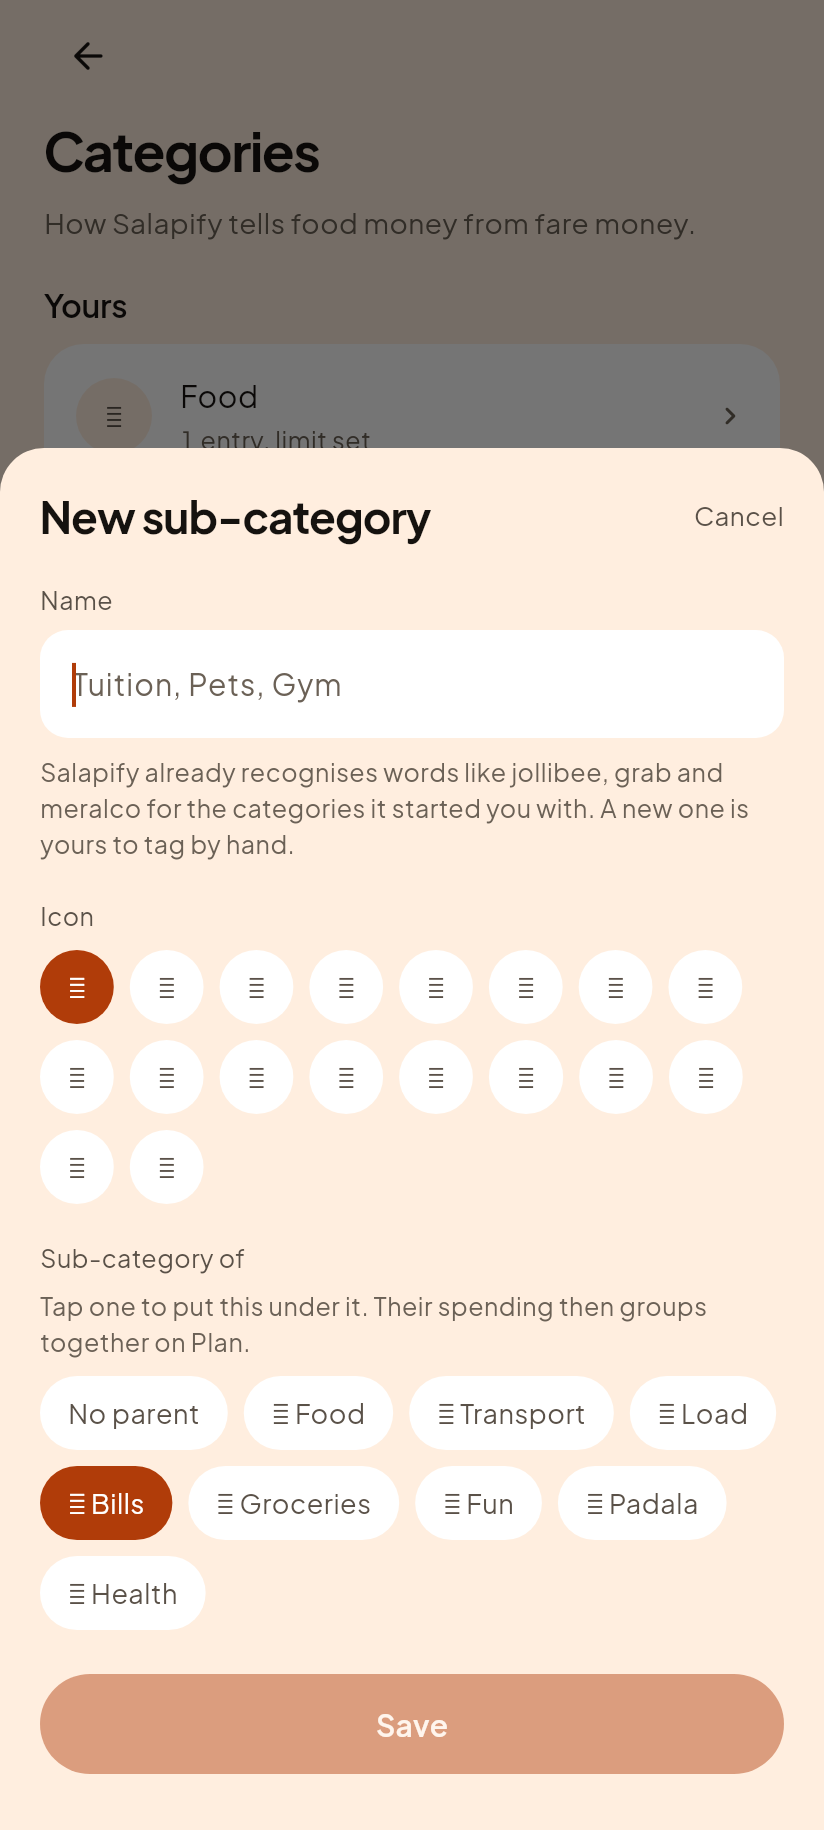
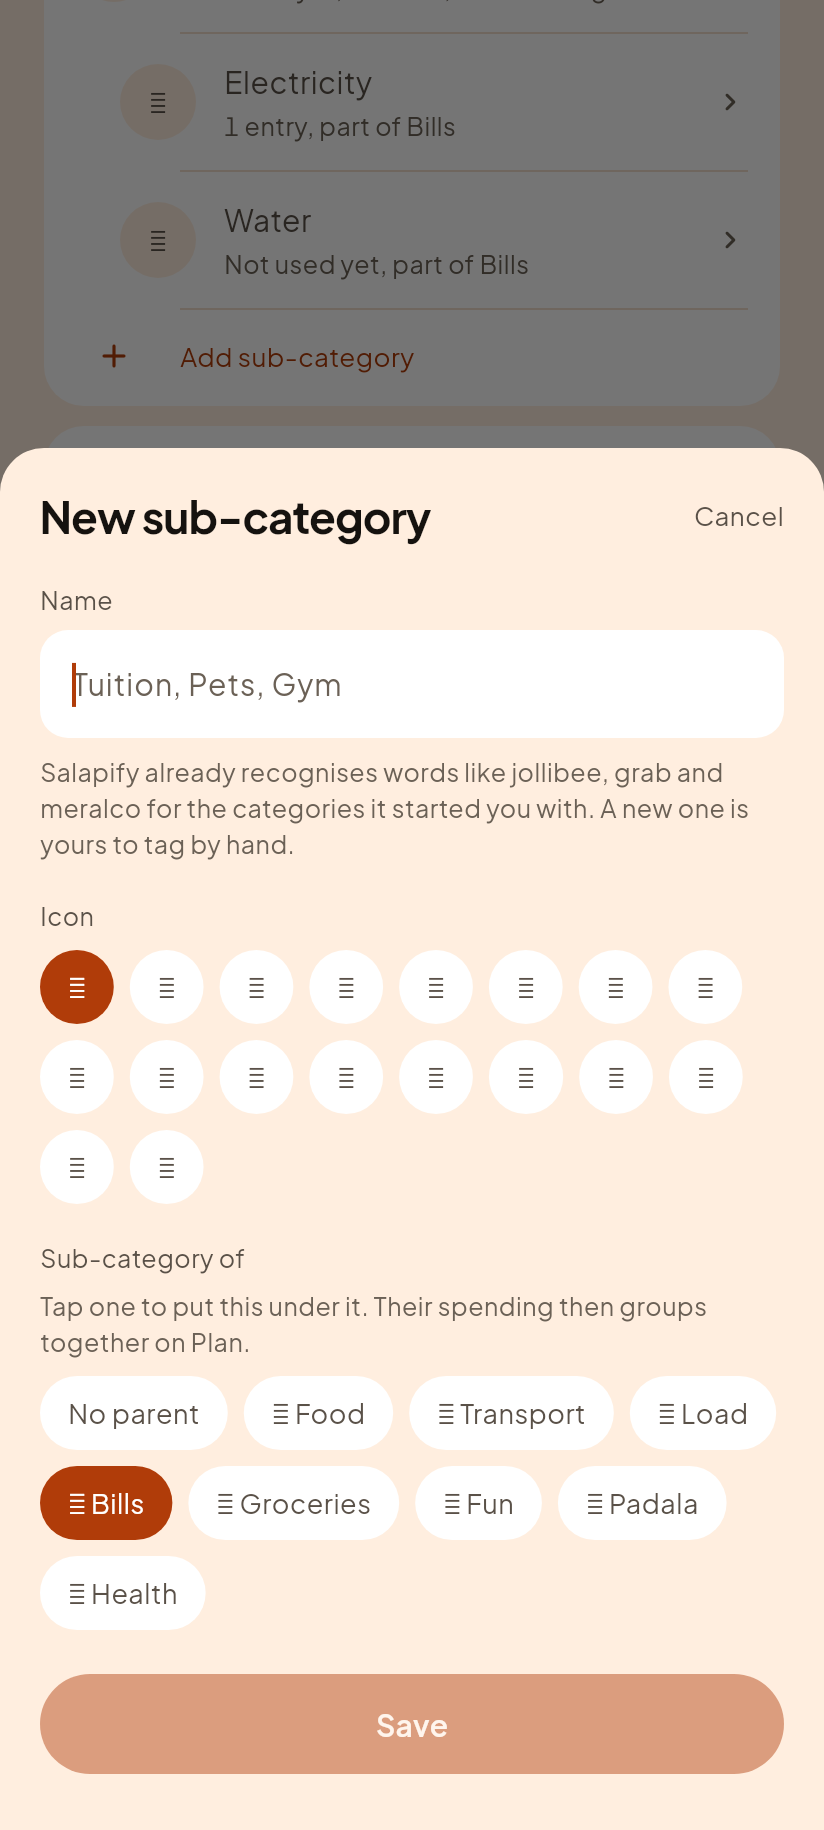
Categories: one card per main category, each with its own add-sub line
Founder direction, after using the first version on their phone: "the users
might be confused. I think its better like add main category then add sub
category right away." Picked the card-per-main-category layout against a
preview of three.

The first shape was one card holding every category in tree order, with the
add control living inside a category's EDIT sheet. Correct, and not
findable. Adding a sub-category through an edit sheet asks somebody to
already know the tree exists before they can build one, and to look for a
CREATE action inside a screen about changing something that already exists.

Now each main category is its own card holding its own sub-categories, with
"Add sub-category" as the last row of that card. The card that owns the
children also owns the way to add one, so the structure teaches itself. The
line is left off a card whose category is itself somebody's child, which is
the two-level rule read from this side (canBeParent, the same function
parentCandidates uses to decide who may be picked).

The editor's own "Add a sub-category" link is REMOVED rather than kept
beside it. Two doors to one action is more surface for a beginner to choose
between, which is the confusion the direction was about, and the list is
strictly the more discoverable of the two.

The journey test moved to the list route with it, and now names what is
missing before it taps: the finder's own "Bad state: No element" was the
[…]

diff --git a/app/lib/features/categories/categories_screen.dart b/app/lib/features/categories/categories_screen.dart
@@ -18,7 +18,7 @@
 import 'package:flutter/material.dart';
 
 import '../../app/ledger_scope.dart';
-import '../../core/money/categories.dart' show categoryTree;
+import '../../core/money/categories.dart' show CategoryRow, categoryTree;
 import '../../core/money/ledger.dart' show amountOf;
 import '../../design/kit.dart';
 import '../../design/tokens.dart';
@@ -84,13 +84,30 @@ class CategoriesScreen extends StatelessWidget {
           ] else ...[
             const Head(title: 'Yours'),
             const SizedBox(height: 8),
-            Group(
-              children: [
-                for (final row in live)
-                  _CategoryRow(cat: row.cat, hidden: false, depth: row.depth),
-              ],
-            ),
-            const SizedBox(height: 16),
+            // ONE CARD PER MAIN CATEGORY, holding its own sub-categories and
+            // its own way to add another. Founder direction, after watching
+            // the first version: "the users might be confused. I think its
+            // better like add main category then add sub category right
+            // away". One long list with the add control buried inside an
+            // EDIT sheet asked somebody to already know the structure exists
+            // before they could build one. A card that visibly owns its
+            // children, with the add line sitting on it, is the structure.
+            for (final cluster in _clusters(live)) ...[
+              Group(
+                children: [
+                  for (final row in cluster)
+                    _CategoryRow(cat: row.cat, hidden: false, depth: row.depth),
+                  // Not offered on a category that is itself somebody's child,
+                  // which is the two-level rule read from this side: its
+                  // children would be grandchildren, the shape categoryTree
+                  // flattens back out on the next screen.
+                  if (canBeParent(data, cluster.first.cat))
+                    _AddSubRow(parent: cluster.first.cat),
+                ],
+              ),
+              const SizedBox(height: 10),
+            ],
+            const SizedBox(height: 6),
           ],
 
           PillButton(
@@ -121,6 +138,63 @@ class CategoriesScreen extends StatelessWidget {
             ),
           ],
         ],
+      ),
+    );
+  }
+}
+
+/// The tree, cut into one list per main category: the parent first, then the
+/// children [categoryTree] already placed under it.
+///
+/// A leading child with no parent above it starts its own cluster rather than
+/// being dropped. That cannot happen through this screen, and dropping a row
+/// a person cannot see is exactly how a category becomes impossible to find,
+/// rename or delete, which is the defensive rule `categoryTree` itself keeps.
+List<List<CategoryRow>> _clusters(List<CategoryRow> rows) {
+  final out = <List<CategoryRow>>[];
+  for (final r in rows) {
+    if (r.depth == 0 || out.isEmpty) {
+      out.add([r]);
+    } else {
+      out.last.add(r);
+    }
+  }
+  return out;
+}
+
+/// The add control that lives ON the category it adds to.
+class _AddSubRow extends StatelessWidget {
+  const _AddSubRow({required this.parent});
+  final Map<String, dynamic> parent;
+
+  @override
+  Widget build(BuildContext context) {
+    final skin = context.skin;
+    return Semantics(
+      button: true,
+      child: Pressable(
+        onTap: () =>
+            showCategoryEditor(context, initialParentId: '${parent['id']}'),
+        child: Padding(
+          padding: const EdgeInsets.symmetric(vertical: 13),
+          child: Row(
+            children: [
+              // The width of a row's icon disc, so the label lines up with
+              // every title above it instead of floating loose under them.
+              SizedBox(
+                width: 38,
+                child: Icon(Icons.add_rounded, size: 20, color: skin.accent),
+              ),
+              const SizedBox(width: 14),
+              Expanded(
+                child: Text(
+                  'Add sub-category',
+                  style: TypeScale.action(skin.accent),
+                ),
+              ),
+            ],
+          ),
+        ),
       ),
     );
   }
@@ -472,43 +546,12 @@ class _CategorySheetState extends State<_CategorySheet> {
             ];
     }
 
-    // THE OTHER DIRECTION. Offered on any saved, live category that is not
-    // already somebody's child, whether or not it has children yet: a parent
-    // with two sub-categories can take a third, and a plain category can
-    // become a parent for the first time. `canBeParent` is the same rule
-    // `parentCandidates` applies to decide who may be PICKED, asked here of
-    // the category on screen instead.
-    if (existing != null && canBeParent(data, existing)) {
-      body.addAll([
-        const SizedBox(height: 12),
-        GestureDetector(
-          behavior: HitTestBehavior.opaque,
-          onTap: _busy ? null : () => _addSubCategory(existing),
-          child: Row(
-            mainAxisSize: MainAxisSize.min,
-            children: [
-              Icon(Icons.add_rounded, size: 18, color: skin.accent),
-              const SizedBox(width: 6),
-              Text('Add a sub-category', style: TypeScale.action(skin.accent)),
-            ],
-          ),
-        ),
-      ]);
-    }
-
+    // THE OTHER DIRECTION LIVES ON THE LIST NOW, not here. This sheet carried
+    // an "Add a sub-category" link for one round and the founder's read of it
+    // was that a person hunting for the feature would never open an EDIT sheet
+    // to find it. One door, on the card that owns the category, rather than
+    // the same action in two places a beginner has to choose between.
     return body;
-  }
-
-  /// Close this sheet and open a NEW category already under [parent].
-  ///
-  /// The navigator is captured BEFORE the pop, the pattern the transfer sheet
-  /// established: popping deactivates this widget's own context, and using it
-  /// afterwards to open anything is how a sheet ends up with no ancestor to
-  /// attach to.
-  void _addSubCategory(Map<String, dynamic> parent) {
-    final nav = Navigator.of(context);
-    nav.pop();
-    showCategoryEditor(nav.context, initialParentId: '${parent['id']}');
   }
 
   Future<void> _save() async {

diff --git a/app/test/features/categories_test.dart b/app/test/features/categories_test.dart
@@ -332,20 +332,48 @@ void main() {
       tester,
     ) async {
       // The founder's second question, after the picker shipped: "what if i
-      // want to make a parent/main category then its subcategory?" It was
-      // possible and it was not REACHABLE: you had to leave the parent, tap
-      // Add a category, and find the parent again among the chips. This is
-      // the one tap route, and this test walks it the way a person does.
+      // want to make a parent/main category then its subcategory?" then, on
+      // the first answer: "the users might be confused. I think its better
+      // like add main category then add sub category right away". So the add
+      // control sits on the CARD, one tap from the list, and this test walks
+      // it from the list the way a person does rather than from an edit sheet
+      // nobody hunting for the feature would think to open.
       final store = await memoryStore(livedIn());
       await tester.pumpWidget(_app(store));
       await tester.pumpAndSettle();
       await _openCategories(tester);
 
-      await tester.tap(find.text('Bills'));
+      // Bills is the card that already holds Electricity and Water, so this
+      // also proves the line appears on a card that HAS children rather than
+      // only on an empty one.
+      await tester.scrollUntilVisible(
+        find.text('Bills'),
+        200,
+        scrollable: find.byType(Scrollable).first,
+      );
       await tester.pumpAndSettle();
-      await tester.ensureVisible(find.text('Add a sub-category'));
+      final onBillsCard = find.descendant(
+        of: find.ancestor(of: find.text('Bills'), matching: find.byType(Group)),
+        matching: find.text('Add sub-category'),
+      );
+      // Named BEFORE it is used, or the finder's own "Bad state: No element"
+      // is the whole failure report and says nothing about what is missing.
+      expect(
+        onBillsCard,
+        findsOneWidget,
+        reason:
+            'the card holding Bills has no way to add a sub-category on it, '
+            'so the only route back to one is the edit sheet nobody hunting '
+            'for the feature would open',
+      );
+      final addUnderBills = onBillsCard.first;
+      await tester.scrollUntilVisible(
+        addUnderBills,
+        200,
+        scrollable: find.byType(Scrollable).first,
+      );
       await tester.pumpAndSettle();
-      await tester.tap(find.text('Add a sub-category'));
+      await tester.tap(addUnderBills);
       await tester.pumpAndSettle();
 
       // The new sheet SAYS what it is, or the tap's one fact is lost.

diff --git a/app/test/shots/screens_shot.dart b/app/test/shots/screens_shot.dart
@@ -698,16 +698,41 @@ void main() {
       await tester.pumpAndSettle();
       await _shoot(tester, '${s.key}-category-editor-parent');
 
-      // And the one tap route OFF that sheet: a new category that arrives
-      // already under Bills, which is the shortcut the founder asked for
-      // after the picker shipped ("what if i want to make a parent/main
-      // category then its subcategory?").
-      await tester.ensureVisible(find.text('Add a sub-category'));
+      await tester.tap(find.text('Cancel'));
       await tester.pumpAndSettle();
-      await tester.tap(find.text('Add a sub-category'));
+
+      // And the one tap route from the LIST: the add line on the card that
+      // owns the category, which is where the founder said it belongs ("add
+      // main category then add sub category right away"). The new sheet
+      // arrives titled New sub-category with Bills already picked.
+      final addUnderBills = find
+          .descendant(
+            of: find.ancestor(
+              of: find.text('Bills'),
+              matching: find.byType(Group),
+            ),
+            matching: find.text('Add sub-category'),
+          )
+          .first;
+      await tester.scrollUntilVisible(
+        addUnderBills,
+        200,
+        scrollable: find.byType(Scrollable).first,
+      );
+      await tester.pumpAndSettle();
+      await tester.tap(addUnderBills);
       await tester.pumpAndSettle();
       await _shoot(tester, '${s.key}-category-new-sub');
       await tester.tap(find.text('Cancel'));
+      await tester.pumpAndSettle();
+
+      // Back at the top of the list for the shots below, since reaching the
+      // add line scrolled the screen.
+      await tester.scrollUntilVisible(
+        find.text('Food'),
+        -200,
+        scrollable: find.byType(Scrollable).first,
+      );
       await tester.pumpAndSettle();
 
       // A category with money through it AND a cap set, which is the state the

diff --git a/docs/revamp/mockups/hapon/c14/README.md b/docs/revamp/mockups/hapon/c14/README.md
@@ -2,11 +2,30 @@
 
 Gabi (dark) is on the left, because that is what the founder uses.
 
-## The list, as a tree
+## One card per main category, each with its own way to add under it
 
 | Gabi (dark) | Hapon (light) |
 |---|---|
 | ![Gabi](gabi-categories.png) | ![Hapon](hapon-categories.png) |
+
+This is the SECOND shape of this screen, and the first one is worth recording
+because the difference is the whole lesson. The first version drew every
+category in one card, in tree order, and put the add control inside the EDIT
+sheet of a category. It was correct and it was not findable. The founder, on
+the create sheet with the parent picker visible in front of them: *"no add
+sub category here"*, and then, on being shown where it was: *"the users might
+be confused. I think its better like add main category then add sub category
+right away."*
+
+They were right, and the reason is structural rather than cosmetic. Adding a
+sub-category through an EDIT sheet asks somebody to already know the tree
+exists before they can build one, and to look for a create action inside a
+screen about changing something that already exists. A card that visibly owns
+its children, with the add line sitting on it, IS the structure. Nobody has
+to be taught it.
+
+The line is left off a card whose category is itself somebody's child, which
+is the two-level rule read from this side.
 
 The founder's report was plain: *"for categores and sub categories - nothing
 happened."* It was accurate. `parentId` was already read by `categoryTree` and
@@ -38,17 +57,10 @@ because it was already reading `parentId`, it just never had one to read.
 |---|---|
 | ![Gabi](gabi-category-editor-parent.png) | ![Hapon](hapon-category-editor-parent.png) |
 
-Note the second control on that sheet, "Add a sub-category", which is the
-other direction and the founder's next question once the picker shipped:
-*"what if i want to make a parent/main category then its subcategory? no
-option to do that currently."*
-
-It was possible and it was not REACHABLE. Making a main category and then
-putting something under it meant leaving that category, tapping "Add a
-category" on the list, and hunting the parent back out of a row of chips. So
-the grouping field points BOTH ways now: "Sub-category of" picks this
-category's parent, and "Add a sub-category" makes this category the parent of
-a brand new one.
+This sheet carried an "Add a sub-category" link of its own for one round, and
+it is gone: the list card does that job now, where somebody hunting for the
+feature will actually meet it. One door, not the same action offered twice in
+two places a beginner has to choose between.
 
 ## The new category arrives already grouped
 
@@ -56,18 +68,25 @@ a brand new one.
 |---|---|
 | ![Gabi](gabi-category-new-sub.png) | ![Hapon](hapon-category-new-sub.png) |
 
-The sheet is titled "New sub-category" rather than "New category", and Bills
-is already picked in the chips, because the tap that opened it carried that
-fact and a generic form would have thrown it away. Type a name, tap Save, and
-the list underneath redraws with the new row indented under Bills.
+Tapping "Add sub-category" on the Bills card opens this. The sheet is titled
+"New sub-category" rather than "New category", and Bills is already picked in
+the chips, because the tap that opened it carried that fact and a generic
+form would have thrown it away. Type a name, tap Save, and the Bills card
+redraws with the new row inside it.
 
-It is offered on any saved, live category that is not already somebody's
+The add line appears on any live category that is not already somebody's
 child, whether or not it has children yet: a parent with two sub-categories
 can take a third, and a plain category can become a parent for the first
 time. That test is `canBeParent`, which is the SAME rule `parentCandidates`
 uses to decide who may be picked, asked from the other side. One function,
 because two copies of this exact test are how the self-parent bug happened in
 the first place.
+
+The other route still exists and is unchanged: while creating any category,
+the "Sub-category of" chips put it under an existing one. Its caption now
+says what to TAP ("Tap one to put this under it") rather than describing the
+effect, because the founder read the old line, on the sheet with the picker
+on it, and reported there was no option to make a sub-category.
 
 Bills already groups Electricity and Water. Letting it also become someone
 else's child would make its own children grandchildren, the one shape nothing
